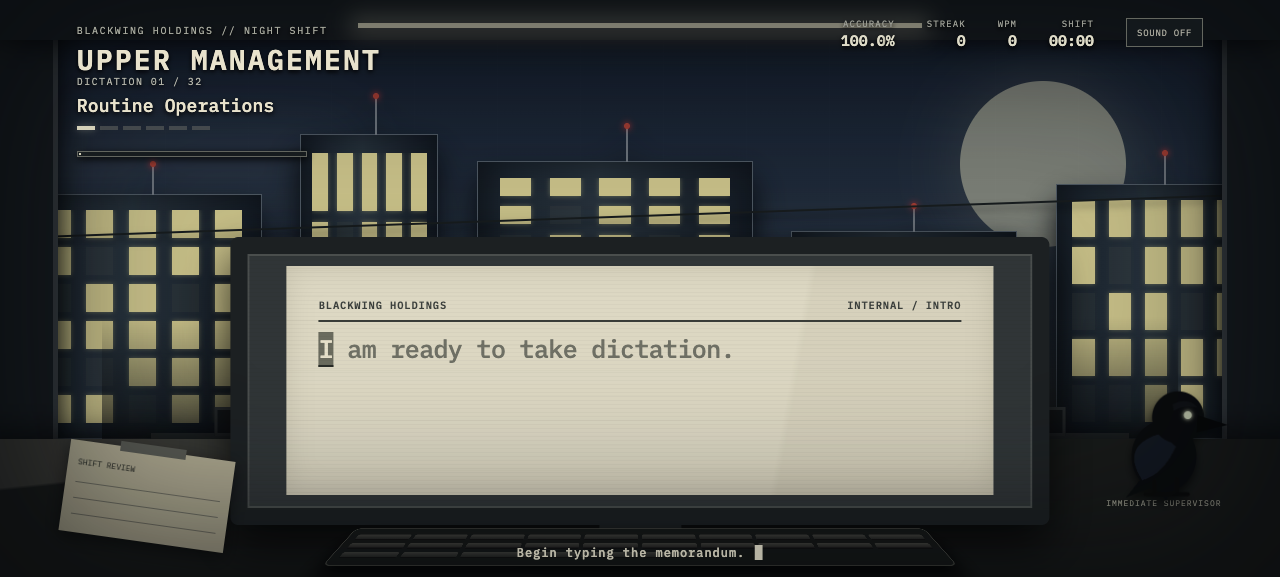
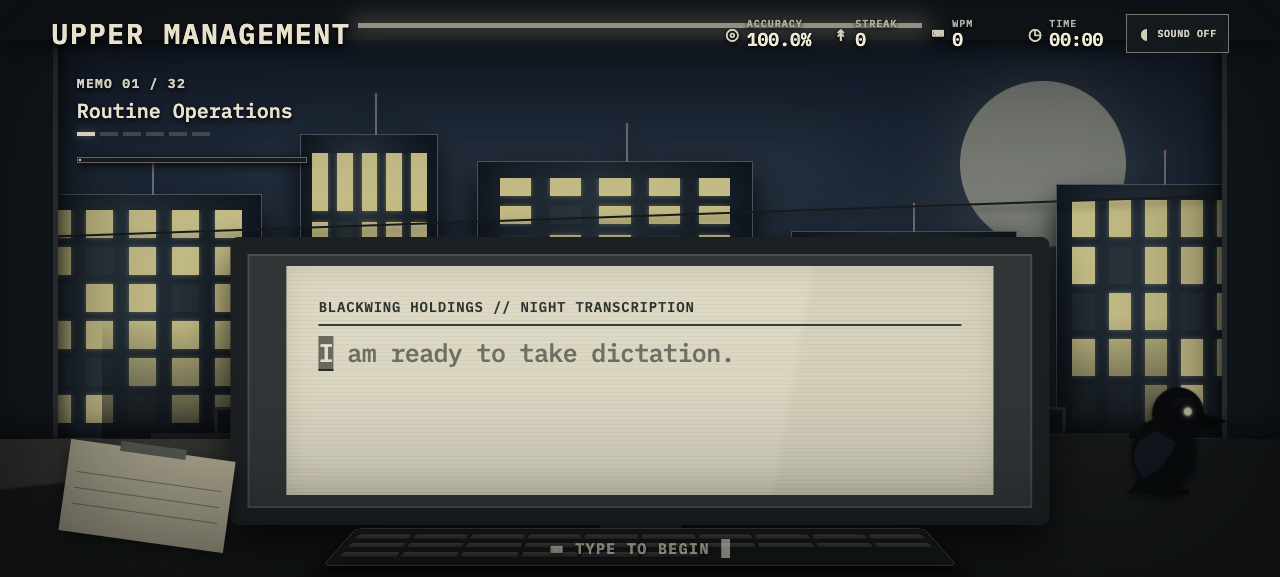
Simplify microcopy and enlarge the game HUD

diff --git a/typing/src/styles.css b/typing/src/styles.css
@@ -94,7 +94,7 @@ button { font: inherit; }
 .monitor-screen::after { content: ''; position: absolute; inset: 0; pointer-events: none; background: repeating-linear-gradient(0deg, #fff0 0 3px, #0000000d 4px); mix-blend-mode: multiply; }
 .monitor-neck { position: absolute; width: 10%; height: 15%; left: 45%; top: 100%; background: #1b1e1f; }.monitor-foot { position: absolute; width: 32%; height: 5%; left: 34%; top: 113%; background: #101213; border-radius: 50%; }
 .memo-card { position: absolute; inset: 5%; padding: clamp(18px, 2.5vw, 36px); color: var(--ink); background: var(--paper); background-image: linear-gradient(100deg, transparent 0 70%, #a9a58e22 71%), repeating-linear-gradient(0deg, transparent 0 24px, #76746112 25px); box-shadow: inset 0 0 28px #847f6944; overflow: hidden; }
-.memo-header { display: flex; justify-content: space-between; gap: 12px; color: #3c403d; font-size: clamp(10px, .82vw, 13px); font-weight: 600; letter-spacing: .08em; }
+.memo-header { color: #303430; font-size: clamp(14px, 1.05vw, 16px); font-weight: 600; letter-spacing: .055em; }
 .memo-rule { height: 2px; margin: 8px 0 clamp(14px, 2vh, 28px); background: #3a3d39; }
 .memo-text { margin: 0; font-family: 'IBM Plex Mono', ui-monospace, monospace; font-size: clamp(22px, 1.95vw, 31px); font-weight: 500; line-height: 1.38; letter-spacing: -.025em; }
 .typed { color: #171a17; }.untyped { color: #6f7065; }
@@ -102,13 +102,12 @@ button { font: inherit; }
 .has-history .expected { animation: errorFlash .24s ease-out, cursor 1.05s .24s steps(1) infinite; }
 @keyframes cursor { 50% { background: #6a6b5e; color: #e7e1cb; } }
 @keyframes errorFlash { 0%, 70% { background: var(--red); color: #fff; box-shadow: 0 0 18px #bd2b2b; } }
-.signature-line { position: absolute; left: clamp(18px, 2.5vw, 36px); right: clamp(18px, 2.5vw, 36px); bottom: 7%; padding-top: 7px; border-top: 1px solid #77776b; color: #55584f; font-size: clamp(9px, .72vw, 11px); }
-.training-stamp { position: absolute; right: 4%; bottom: 19%; color: #6e403a; border: 2px solid #6e403a; padding: 4px 7px; font-size: 9px; transform: rotate(-4deg); opacity: .8; }
+.training-stamp { position: absolute; right: 4%; bottom: 12%; color: #6e403a; border: 2px solid #6e403a; padding: 5px 8px; font-size: 11px; font-weight: 600; transform: rotate(-4deg); opacity: .8; }
 .blot-layer { position: absolute; inset: 26% 8% 18%; pointer-events: none; }
 .ink-blot { position: absolute; top: 38%; border-radius: 45% 55% 41% 59%; background: #393b35; opacity: .78; box-shadow: 3px 2px 0 -1px #393b35, -3px 1px 0 -1px #393b35; }
 .keyboard { position: absolute; width: min(600px, 48vw); height: 8vh; min-height: 50px; left: 50%; bottom: 1%; transform: translateX(-50%) perspective(300px) rotateX(42deg); display: grid; grid-template-columns: repeat(10, 1fr); gap: 4px; padding: 8px; background: #151817; border: 1px solid #454640; border-radius: 6px; box-shadow: 0 14px 20px #000; }
 .keyboard i { min-width: 8px; background: linear-gradient(#454640, #292a28); border-radius: 2px; border-bottom: 2px solid #101110; }
-.clipboard { position: absolute; left: 5%; bottom: 6%; width: 13vw; min-width: 110px; height: 16vh; padding: 16px 10px; color: #252823; background: #aaa58d; transform: rotate(8deg); box-shadow: 0 5px 17px #0008; font-size: 8px; }
+.clipboard { position: absolute; left: 5%; bottom: 6%; width: 13vw; min-width: 110px; height: 16vh; padding: 16px 10px; background: #aaa58d; transform: rotate(8deg); box-shadow: 0 5px 17px #0008; }
 .clipboard::before { content: ''; position: absolute; width: 40%; height: 10px; left: 30%; top: -5px; background: #555751; }.clipboard i { display: block; height: 1px; margin-top: 15px; background: #6e6d61; }
 .supervisor-perch { position: absolute; right: 4%; bottom: 12%; width: clamp(140px, 18vw, 250px); transition: transform .5s; }
 .supervisor { width: 100%; transform-origin: bottom; transition: transform .25s; animation: ravenBreathe 3s ease-in-out infinite; }
@@ -118,7 +117,6 @@ button { font: inherit; }
 @keyframes ruffle { 30% { transform: scale(1.08) rotate(-2deg); } 70% { transform: scale(.98) rotate(2deg); } }
 @keyframes nod { 50% { transform: rotate(10deg) translateY(6px); } }
 .scrutiny-5 .supervisor-perch, .scrutiny-6 .supervisor-perch, .scrutiny-7 .supervisor-perch { transform: translateX(-4vw) scale(1.14); }
-.supervisor-label { margin-top: -10px; color: #969688; font-size: 8px; text-align: center; letter-spacing: .12em; }
 .reflection-raven { position: absolute; width: 82px; right: 8%; bottom: 8%; opacity: 0; mix-blend-mode: multiply; transform: scaleX(-1); transition: opacity 1s; }
 .scrutiny-7 .reflection-raven { opacity: .3; }
 .collective-stare .raven-head { transform: rotate(-28deg) translate(-7px, 8px) scale(1.07); }
@@ -139,17 +137,17 @@ button { font: inherit; }
 @keyframes finalPeriod { from { transform: translateY(-30px); opacity: 0; } to { transform: translateY(0); opacity: 1; } }
 .vignette { position: absolute; inset: 0; z-index: 30; pointer-events: none; box-shadow: inset 0 0 12vw 3vw #05070aa8; }
 
-.hud { position: absolute; z-index: 40; left: 0; right: 0; top: 0; display: flex; justify-content: space-between; align-items: flex-start; padding: 18px 6vw; pointer-events: none; text-shadow: 0 2px 5px #000; }
-.eyebrow { color: #a7a99d; font-size: 10px; letter-spacing: .16em; }.brand-block h1 { margin: 3px 0; font: 600 clamp(21px, 2.2vw, 34px) 'IBM Plex Mono', monospace; letter-spacing: .075em; }
-.metrics { display: flex; gap: clamp(14px, 2.5vw, 35px); align-items: flex-start; }
-.metrics div { display: grid; gap: 2px; text-align: right; }.metrics span { color: #9b9d94; font-size: 9px; letter-spacing: .12em; }.metrics strong { color: #dfdcc8; font-size: 15px; font-weight: 600; }
-.audio-toggle { pointer-events: auto; color: #aaa99d; background: #151a1ebd; border: 1px solid #64675f; padding: 8px 10px; font-size: 9px; letter-spacing: .08em; cursor: pointer; }
-.stage-label { position: absolute; z-index: 40; left: 6vw; top: 14%; display: grid; gap: 6px; text-shadow: 0 2px 5px #000; }.stage-label span { color: #b2b3a8; font-size: 10px; letter-spacing: .14em; }.stage-label strong { max-width: 230px; font: 500 18px 'IBM Plex Mono', monospace; letter-spacing: .01em; }
+.hud { position: absolute; z-index: 40; left: 0; right: 0; top: 0; display: flex; justify-content: space-between; align-items: center; padding: 14px 4vw; pointer-events: none; text-shadow: 0 2px 5px #000; }
+.brand-block h1 { margin: 0; font: 600 clamp(23px, 2.2vw, 34px) 'IBM Plex Mono', monospace; letter-spacing: .065em; }
+.metrics { display: flex; gap: clamp(12px, 1.8vw, 26px); align-items: center; }
+.metric { display: flex; align-items: center; gap: 8px; min-width: 74px; }.metric > b { color: #d3d0bc; font-size: 21px; font-weight: 400; line-height: 1; }.metric > span { display: grid; gap: 1px; }.metric small { color: #aeb0a6; font-size: 10px; font-weight: 600; letter-spacing: .1em; }.metric strong { color: #f1ecd6; font-size: 18px; font-weight: 600; line-height: 1.05; }
+.audio-toggle { pointer-events: auto; display: flex; align-items: center; gap: 7px; color: #d0cdbc; background: #151a1edb; border: 1px solid #74776e; padding: 9px 11px; font-size: 10px; font-weight: 600; letter-spacing: .06em; cursor: pointer; }.audio-toggle b { font-size: 19px; font-weight: 400; line-height: 1; }
+.stage-label { position: absolute; z-index: 40; left: 6vw; top: 14%; display: grid; gap: 6px; text-shadow: 0 2px 5px #000; }.stage-label > span { color: #d2d0bf; font-size: 13px; font-weight: 600; letter-spacing: .1em; }.stage-label strong { max-width: 250px; font: 500 20px 'IBM Plex Mono', monospace; letter-spacing: 0; }
 .stage-pips { display: flex; gap: 5px; margin-top: 3px; }.stage-pips i { width: 18px; height: 4px; background: #6b6d6680; }.stage-pips i.active { background: #d4d0b8; box-shadow: 0 0 7px #d4d0b855; }
 .shift-progress { position: absolute; z-index: 42; left: 6vw; top: calc(14% + 76px); width: 230px; height: 6px; padding: 1px; background: #161b1e; border: 1px solid #62655e; box-shadow: 0 2px 8px #000; }.shift-progress i { display: block; height: 100%; min-width: 2px; background: #d2cfb8; box-shadow: 0 0 8px #d2cfb877; transition: width .2s ease-out; }
 .game-feedback { position: absolute; z-index: 46; left: 50%; top: 12%; transform: translateX(-50%); padding: 7px 12px; color: #d9d6c3; background: #11161ae8; border: 1px solid #696b64; font-size: 10px; font-weight: 600; letter-spacing: .1em; pointer-events: none; white-space: nowrap; animation: gameFeedback 1.4s both; }.error-feedback { color: #ead7d0; border-color: #8e3a35; }.success-feedback { color: #dfe4c9; border-color: #7f8668; }
 @keyframes gameFeedback { 0% { opacity: 0; transform: translate(-50%, 8px); } 12%, 72% { opacity: 1; transform: translate(-50%, 0); } 100% { opacity: 0; transform: translate(-50%, -5px); } }
-.start-prompt { position: absolute; z-index: 45; left: 50%; bottom: 3%; transform: translateX(-50%); display: flex; align-items: center; gap: 10px; color: #c5c2b0; font-size: 12px; font-weight: 500; letter-spacing: .08em; animation: promptPulse 1.4s ease-in-out infinite; }.start-prompt i { width: 8px; height: 15px; background: #c5c2b0; }
+.start-prompt { position: absolute; z-index: 45; left: 50%; bottom: 2.5%; transform: translateX(-50%); display: flex; align-items: center; gap: 11px; color: #e1ddc8; font-size: 15px; font-weight: 600; letter-spacing: .09em; text-shadow: 0 2px 5px #000; animation: promptPulse 1.4s ease-in-out infinite; }.start-prompt b { font-size: 21px; font-weight: 400; }.start-prompt i { width: 9px; height: 19px; background: #e1ddc8; }
 @keyframes promptPulse { 50% { opacity: .5; } }
 .ending-copy { position: absolute; z-index: 50; inset: 0; display: grid; place-content: center; gap: 10px; text-align: center; pointer-events: none; animation: endingTitle 5s both; }.ending-copy span { font-size: 11px; letter-spacing: .32em; }.ending-copy strong { font: 600 clamp(25px, 4vw, 58px) 'IBM Plex Mono', monospace; letter-spacing: .04em; }
 @keyframes endingTitle { 0%, 55% { opacity: 0; } 70%, 90% { opacity: 1; } 100% { opacity: 0; } }
@@ -158,16 +156,16 @@ button { font: inherit; }
 .debug-panel { position: absolute; z-index: 100; left: 10px; bottom: 10px; width: min(460px, calc(100vw - 20px)); color: #d7d7cd; background: #080b0eee; border: 1px solid #777; font-size: 10px; }.debug-panel summary { padding: 7px; cursor: pointer; }.debug-actions { display: flex; flex-wrap: wrap; gap: 4px; padding: 6px; }.debug-actions button { color: #ddd; background: #24292c; border: 1px solid #555; padding: 5px; cursor: pointer; }.debug-panel output { display: block; max-height: 130px; overflow: auto; padding: 6px; white-space: pre-wrap; color: #9fbc9d; }
 
 @media (max-width: 760px) {
-  .hud { padding: 10px 14px; }.eyebrow, .brand-block h1 { display: none; }.metrics { width: 100%; justify-content: space-between; gap: 8px; }.metrics div { text-align: left; }
+  .hud { padding: 9px 12px; }.brand-block h1 { display: none; }.metrics { width: 100%; justify-content: space-between; gap: 5px; }.metric { min-width: 0; gap: 4px; }.metric > b { font-size: 16px; }.metric small { font-size: 8px; }.metric strong { font-size: 14px; }.audio-toggle { padding: 7px; }.audio-toggle span { display: none; }.audio-toggle b { font-size: 17px; }
   .stage-label { top: 9%; left: 14px; }
-  .monitor { width: 92vw; height: 51vh; bottom: 15%; }.memo-card { inset: 3%; padding: 17px; }.memo-header span:last-child { display: none; }.memo-text { font-size: clamp(20px, 5vw, 25px); line-height: 1.34; }.signature-line { left: 17px; right: 17px; }
-  .supervisor-perch { right: -3%; bottom: 4%; width: 130px; }.supervisor-label { display: none; }.clipboard { display: none; }.keyboard { width: 74vw; bottom: 3%; }
+  .monitor { width: 92vw; height: 51vh; bottom: 15%; }.memo-card { inset: 3%; padding: 17px; }.memo-header { font-size: clamp(11px, 3vw, 14px); }.memo-text { font-size: clamp(20px, 5vw, 25px); line-height: 1.34; }
+  .supervisor-perch { right: -3%; bottom: 4%; width: 130px; }.clipboard { display: none; }.keyboard { width: 74vw; bottom: 3%; }
   .skyline { left: -20%; right: -20%; }.rear-office { display: none; }.window-raven-wrap { right: 0; top: 14%; transform: scale(.7) translateX(100px); }.stage-3 .window-raven-wrap, .stage-4 .window-raven-wrap, .stage-5 .window-raven-wrap, .stage-6 .window-raven-wrap { transform: scale(.7); }
-  .shift-progress { left: 14px; right: 14px; top: 52px; }.stage-label { top: 11%; }.game-feedback { top: 15%; max-width: 92vw; overflow: hidden; text-overflow: ellipsis; font-size: 8px; }
+  .shift-progress { left: 14px; right: 14px; width: auto; top: 58px; }.stage-label { top: 12%; }.game-feedback { top: 17%; max-width: 92vw; overflow: hidden; text-overflow: ellipsis; font-size: 9px; }
 }
 
 @media (max-height: 650px) and (min-width: 761px) {
-  .monitor { height: 50vh; bottom: 9%; }.memo-rule { margin-bottom: 10px; }.signature-line { display: none; }.supervisor-perch { width: 130px; }.stage-label { top: 13%; }.shift-progress { top: calc(13% + 76px); }
+  .monitor { height: 50vh; bottom: 9%; }.memo-rule { margin-bottom: 10px; }.supervisor-perch { width: 130px; }.stage-label { top: 13%; }.shift-progress { top: calc(13% + 82px); }
 }
 
 @media (prefers-reduced-motion: reduce) {

diff --git a/typing/src/App.tsx b/typing/src/App.tsx
@@ -107,21 +107,20 @@ export default function App() {
       <Scene state={state} />
       <header className="hud">
         <div className="brand-block">
-          <span className="eyebrow">BLACKWING HOLDINGS // NIGHT SHIFT</span>
           <h1>UPPER MANAGEMENT</h1>
         </div>
         <div className="metrics" aria-label="Typing metrics">
-          <div><span>ACCURACY</span><strong>{accuracyValue.toFixed(1)}%</strong></div>
-          <div><span>STREAK</span><strong>{state.streak}</strong></div>
-          <div><span>WPM</span><strong>{Math.round(wpm(state, now))}</strong></div>
-          <div><span>SHIFT</span><strong data-testid="timer">{formatTime(elapsed)}</strong></div>
+          <div className="metric"><b aria-hidden="true">◎</b><span><small>ACCURACY</small><strong>{accuracyValue.toFixed(1)}%</strong></span></div>
+          <div className="metric"><b aria-hidden="true">↟</b><span><small>STREAK</small><strong>{state.streak}</strong></span></div>
+          <div className="metric"><b aria-hidden="true">⌨</b><span><small>WPM</small><strong>{Math.round(wpm(state, now))}</strong></span></div>
+          <div className="metric"><b aria-hidden="true">◷</b><span><small>TIME</small><strong data-testid="timer">{formatTime(elapsed)}</strong></span></div>
           <button className="audio-toggle" onClick={toggleAudio} aria-label={`${audioEnabled ? 'Mute' : 'Enable'} office ambience`}>
-            {audioEnabled ? 'SOUND ON' : 'SOUND OFF'}
+            <b aria-hidden="true">◖</b><span>{audioEnabled ? 'SOUND ON' : 'SOUND OFF'}</span>
           </button>
         </div>
       </header>
       <aside className="stage-label">
-        <span>DICTATION {String(state.authoredIndex + 1).padStart(2, '0')} / {String(AUTHORED_MEMOS.length).padStart(2, '0')}</span>
+        <span>MEMO {String(state.authoredIndex + 1).padStart(2, '0')} / {String(AUTHORED_MEMOS.length).padStart(2, '0')}</span>
         <strong>{STAGE_NAMES[titleStage]}</strong>
         <div className="stage-pips" aria-label={`Section ${titleStage + 1} of 6`}>
           {STAGE_NAMES.map((name, index) => <i key={name} className={index <= titleStage ? 'active' : ''} />)}
@@ -141,7 +140,7 @@ export default function App() {
         </div>
       )}
       {!state.startedAt && state.phase === 'playing' && (
-        <div className="start-prompt"><span>Begin typing the memorandum.</span><i /></div>
+        <div className="start-prompt"><b aria-hidden="true">⌨</b><span>TYPE TO BEGIN</span><i /></div>
       )}
       {state.phase === 'ending' && (
         <div className="ending-copy" data-testid="ending">

diff --git a/typing/src/components/Memo.tsx b/typing/src/components/Memo.tsx
@@ -25,10 +25,7 @@ export function Memo({ state }: { state: GameState }) {
 
   return (
     <section className={`memo-card ${state.errorPulse ? 'has-history' : ''}`} data-testid="memo" aria-live="polite">
-      <div className="memo-header">
-        <span>BLACKWING HOLDINGS</span>
-        <span>INTERNAL / {current.id.toUpperCase()}</span>
-      </div>
+      <div className="memo-header">BLACKWING HOLDINGS // NIGHT TRANSCRIPTION</div>
       <div className="memo-rule" />
       <p className="memo-text">
         <span className="typed">{complete}</span>
@@ -40,7 +37,6 @@ export function Memo({ state }: { state: GameState }) {
         <span className="untyped">{remaining}</span>
       </p>
       {current.kind === 'practice' && <span className="training-stamp">SUPPLEMENTAL REVIEW</span>}
-      <div className="signature-line">Dictated on behalf of Upper Management</div>
       <div className="blot-layer" aria-hidden="true">
         {currentBlots.map((blot, index) => <BlotMark key={`${blot.index}-${index}`} blot={blot} textLength={current.text.length} />)}
       </div>

diff --git a/typing/src/components/Scene.tsx b/typing/src/components/Scene.tsx
@@ -79,8 +79,7 @@ export function Scene({ state }: { state: GameState }) {
         <div className="keyboard">
           {Array.from({ length: 26 }, (_, index) => <i key={index} />)}
         </div>
-        <div className="clipboard">
-          <span>SHIFT REVIEW</span>
+        <div className="clipboard" aria-hidden="true">
           <i /><i /><i />
         </div>
         <div className="supervisor-perch">
@@ -89,7 +88,6 @@ export function Scene({ state }: { state: GameState }) {
             stare={state.mistakes > 0}
             label="Your raven supervisor"
           />
-          <div className="supervisor-label">IMMEDIATE SUPERVISOR</div>
         </div>
         <div className="final-typist"><Raven stare /><span className="final-wing">.</span></div>
       </div>
